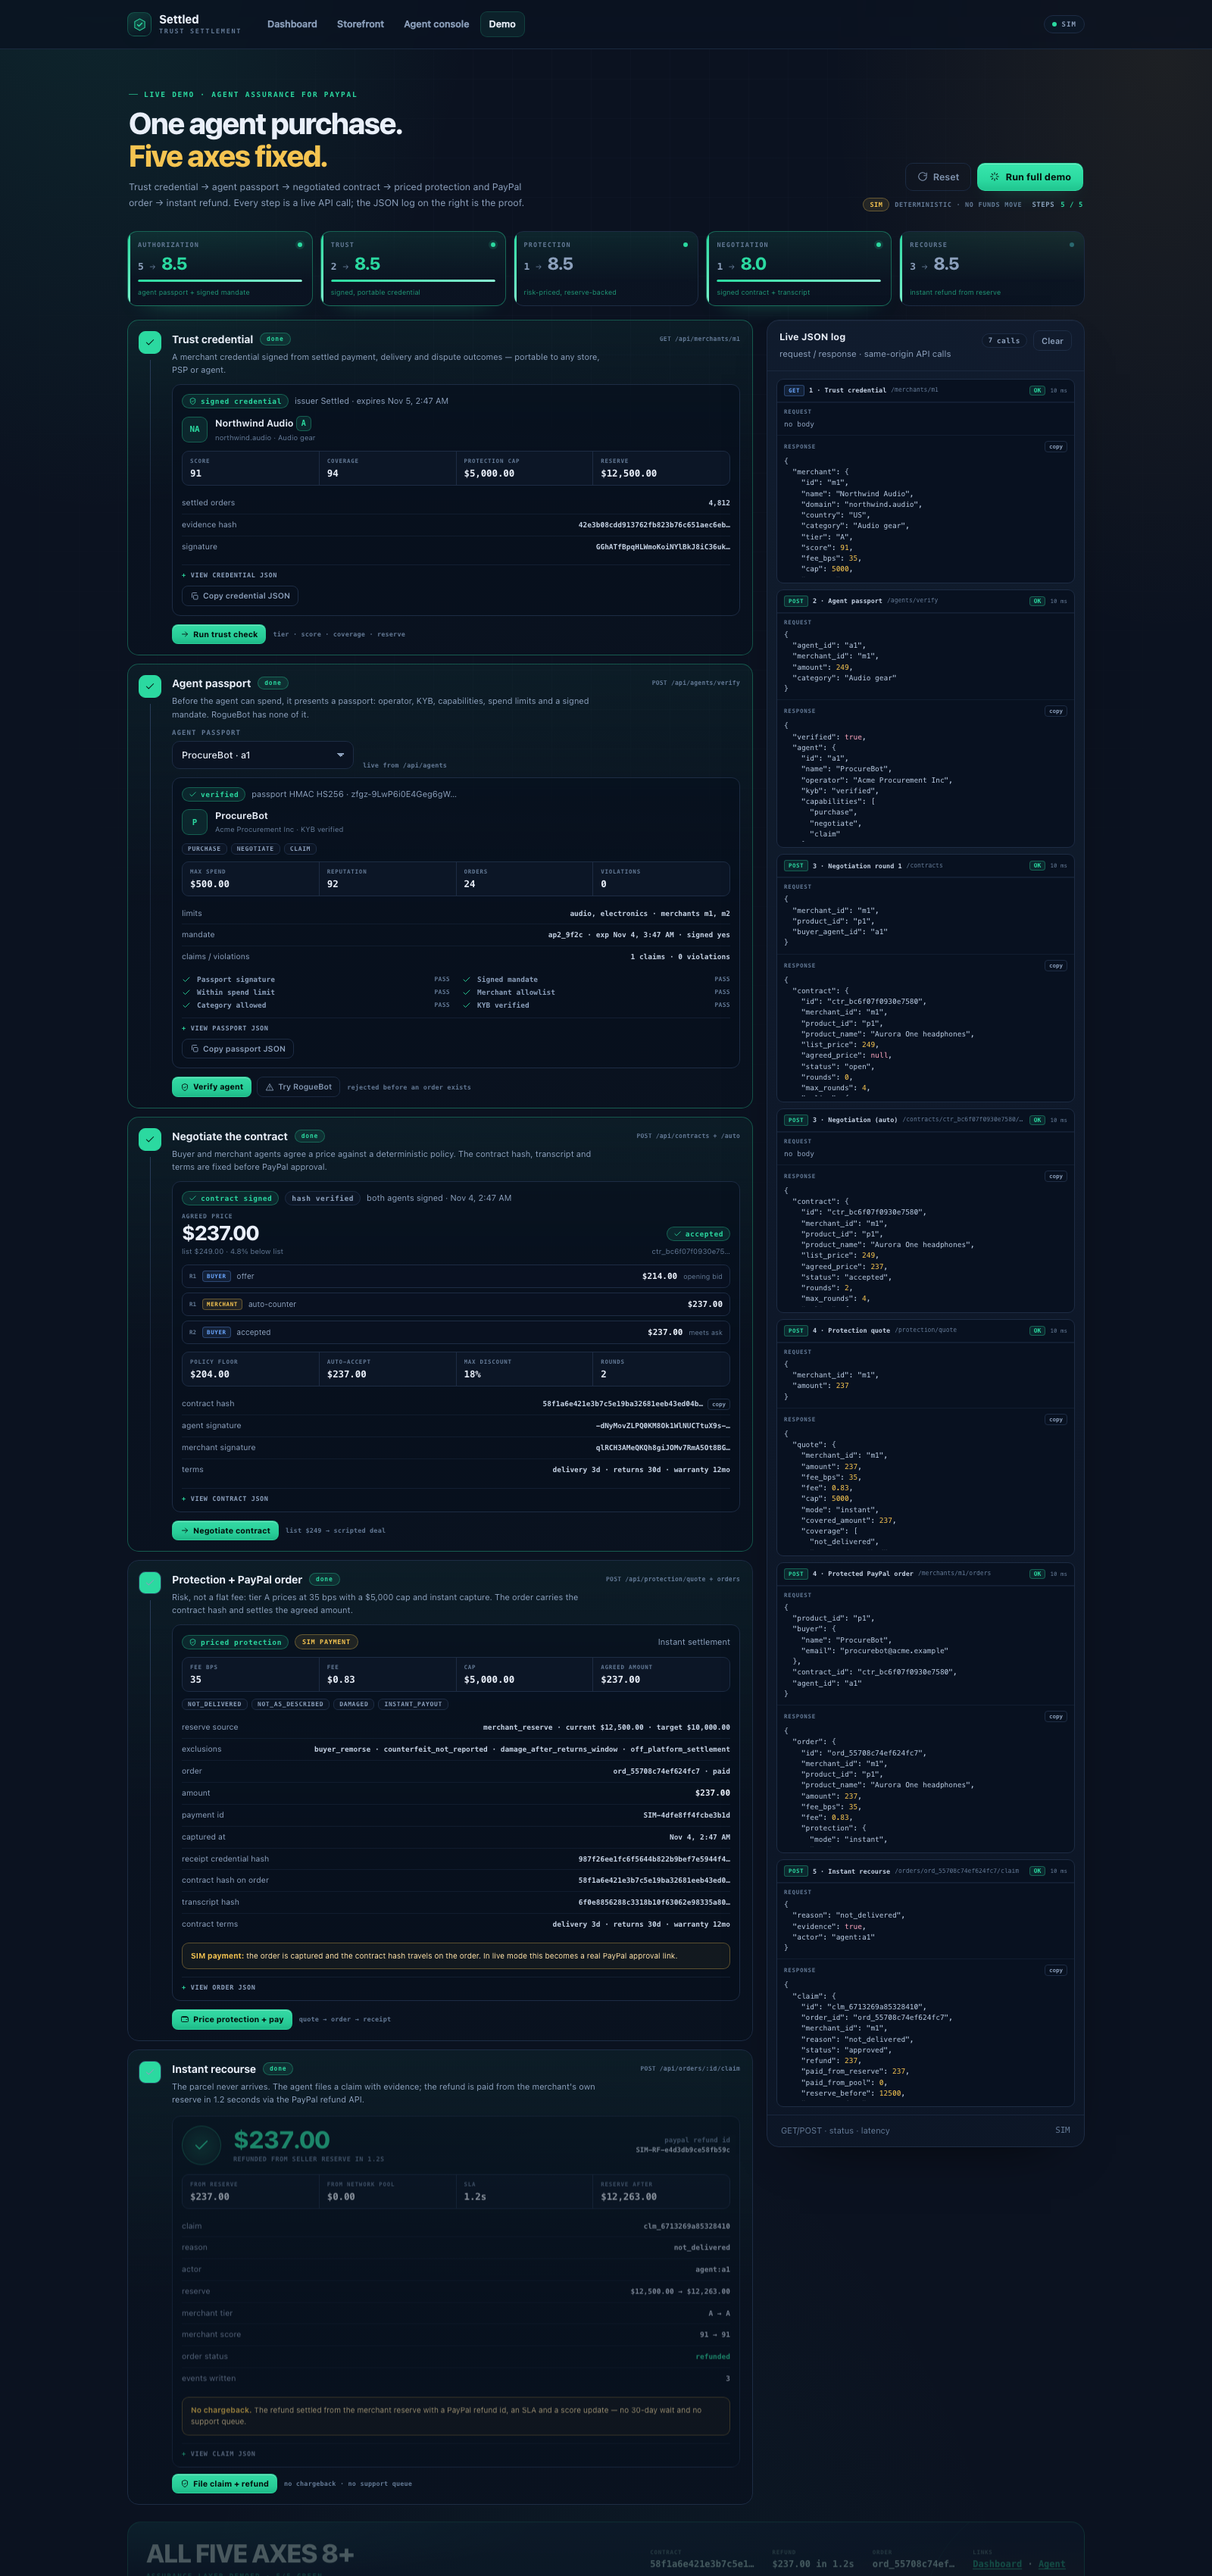
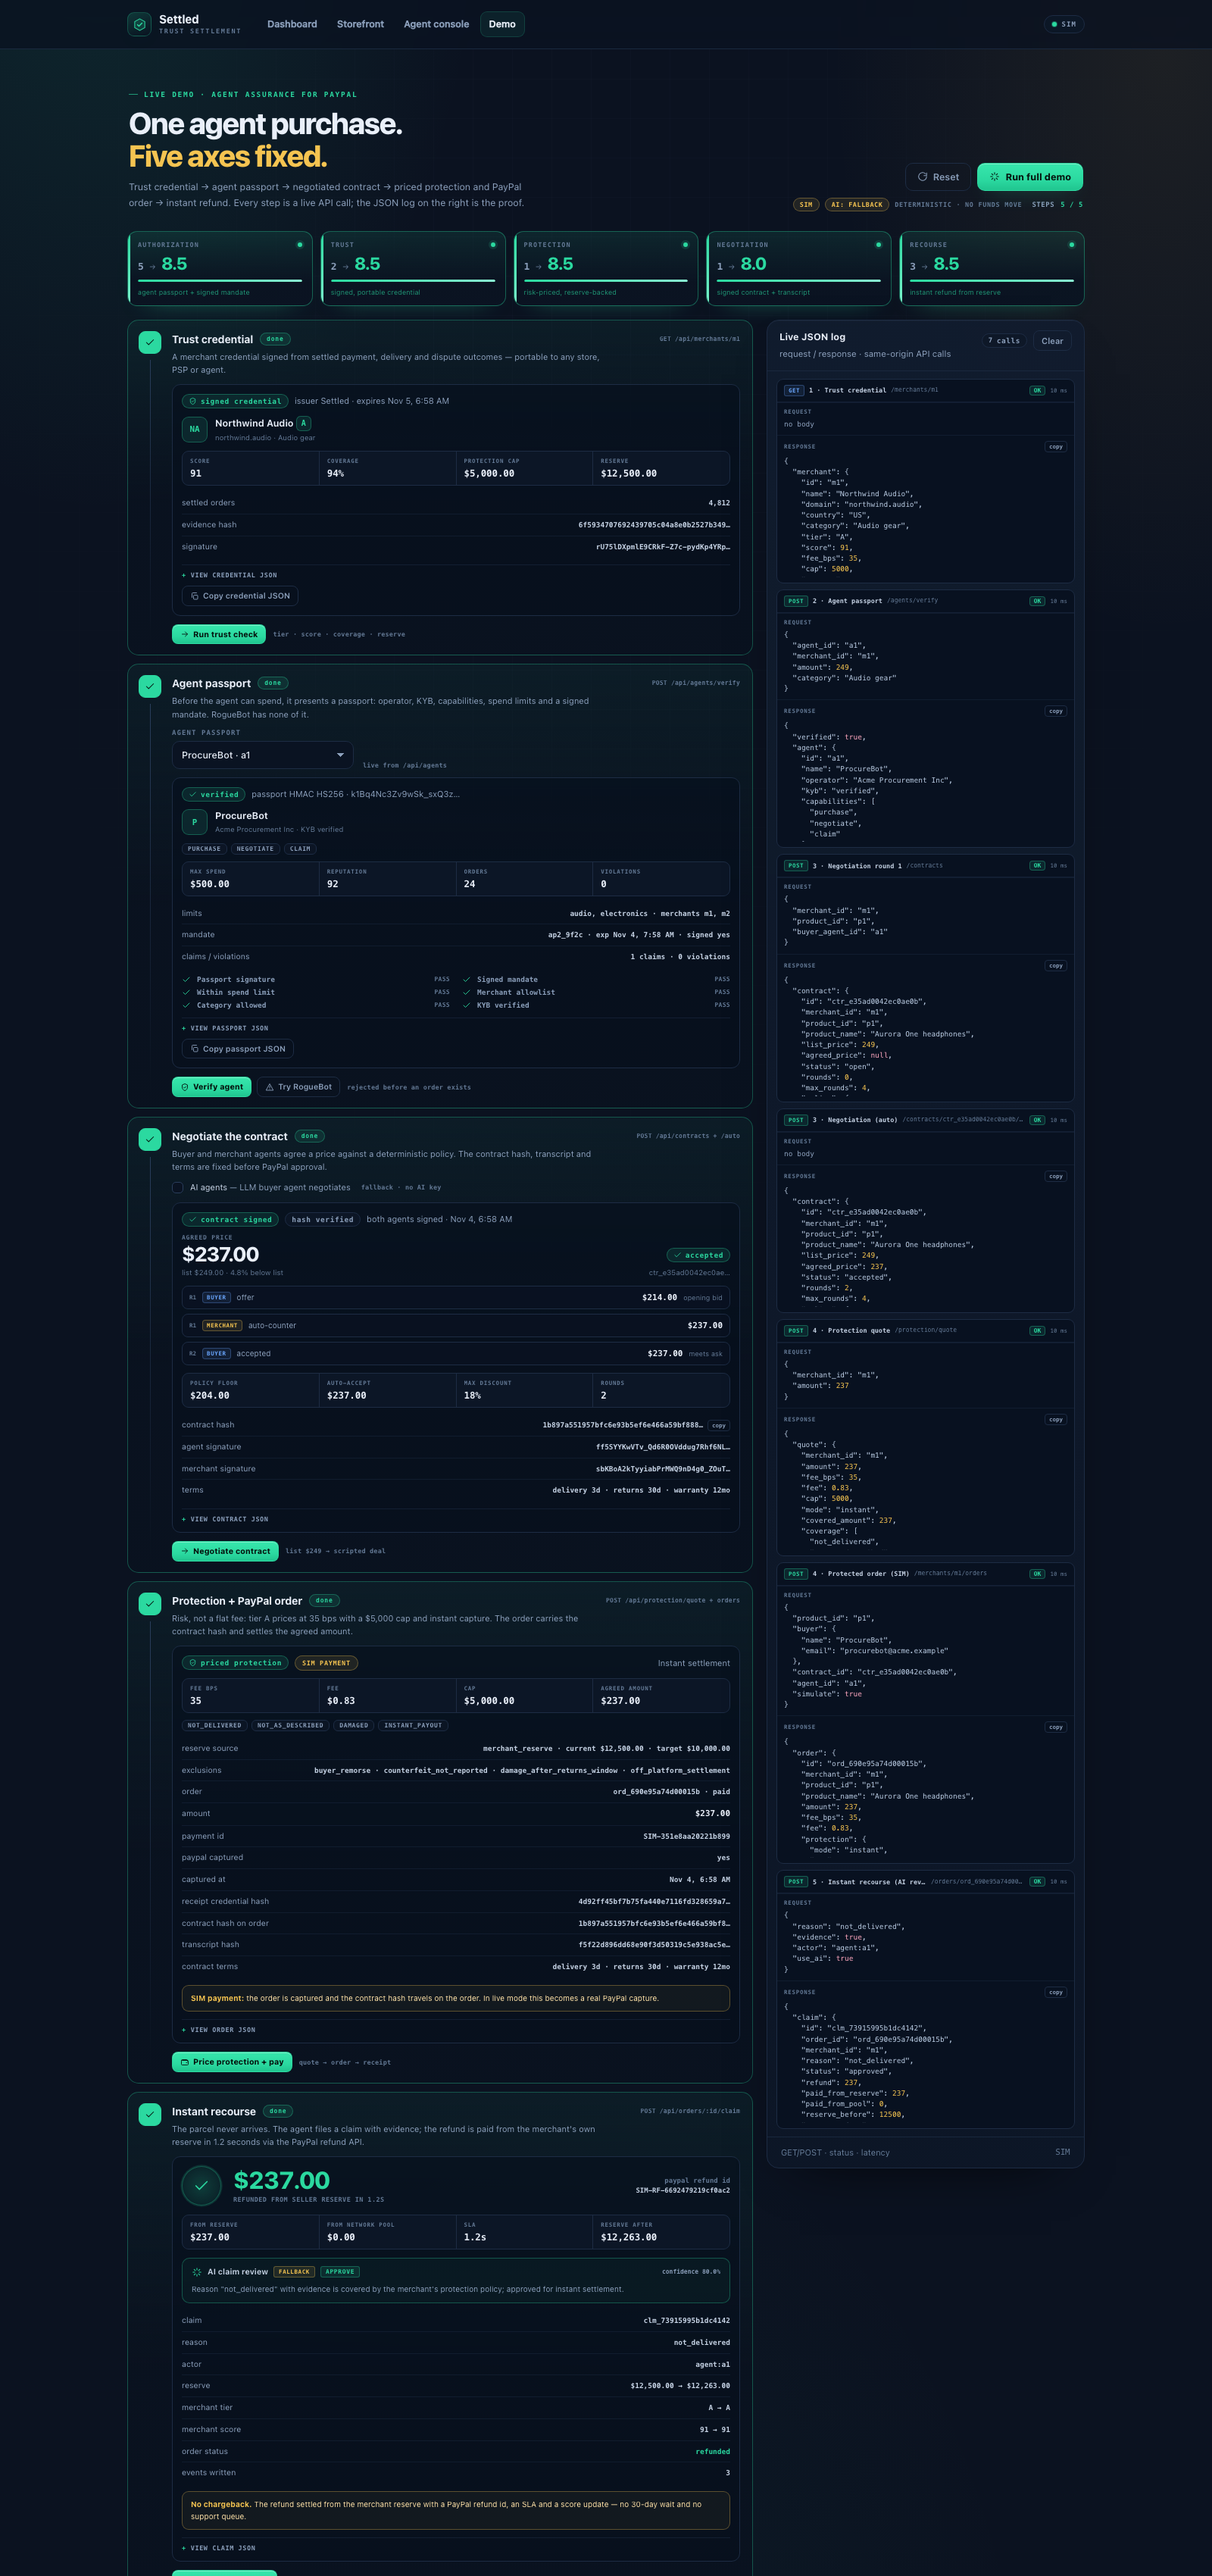
Hackathon build: real AI negotiation + claim explainer, live PayPal sandbox flow, demo UI, 63/63 tests, submission kit

diff --git a/HACKATHON-PROOF.md b/HACKATHON-PROOF.md
@@ -99,7 +99,7 @@ This is the honest audit, not the pitch.
 | Criterion | Evidence to show | Where |
 |---|---|---|
 | **Innovation / novelty** | Not a badge or chargeback guarantee: outcome-signed portable credential + risk-priced protection + instant reserve payout + agent API. The three legs no incumbent holds together | Steps 1–5; prior-art audit |
-| **Technical execution** | Working zero-dependency demo; PayPal Orders v2 path; HMAC credential + hash chain; agent passport; contract signing; risk tiers; instant claim; **57/57 e2e tests** | `/demo.html`, `npm test` |
+| **Technical execution** | Working zero-dependency demo; PayPal Orders v2 path; HMAC credential + hash chain; agent passport; contract signing; risk tiers; instant claim; **63/63 e2e tests** | `/demo.html`, `npm test` |
 | **Business viability** | 51% abandon on legitimacy; $1.3B protection cost centre; bps pricing; platform license; agent API; 90-day test plan | Pitch 2:35–3:20; [VALUE-PROPOSITION.md](VALUE-PROPOSITION.md) |
 | **Demo quality** | 5-step console, deterministic, SIM fallback, JSON log, reset | `/demo.html` |
 | **Impact** | Merchant: conversion + bounded loss. Buyer: seconds-to-refund. Agent: passport + remedy. PayPal: new fee SKU + take-rate defense | All steps |
@@ -120,7 +120,7 @@ This is the honest audit, not the pitch.
 8. **"What if PayPal builds it?"** → Best case: partner/acquire. We plug into Orders, Refunds, Webhooks, Agent Toolkit/MCP. The trust layer is neutral and portable; PayPal's data makes it stronger, not weaker.
 9. **"Where does the money for claims come from?"** → Merchant reserve/LC/insurer, not a demo pool. No custody: the reserve stays with the merchant's PSP or an insurer; caps are reserve × factor; a backtested loss curve precedes "instant."
 10. **"How do you prevent gaming?"** → Only payment-settled, carrier-confirmed, matured outcomes count; identity at the beneficial-owner level; coverage disclosure; collateral before trust; buyer/agent reputation; graph detection; caps.
-11. **"What's your evidence?"** → 57/57 e2e tests and a working demo today; pre-revenue, with a pre-registered 30-day test plan. We show the test cards, not just the deck.
+11. **"What's your evidence?"** → 63/63 e2e tests and a working demo today; pre-revenue, with a pre-registered 30-day test plan. We show the test cards, not just the deck.
 12. **"Market size?"** → $1.3B protection provision/$1.49B losses inside PayPal; 51% abandonment on legitimacy; agentic checkout is the new surface. The wedge is the protected-GMV bps, not the TAM slide.
 13. **"Regulatory/insurance?"** → No custody, merchant-funded guarantee, insurer/LC partner, counsel memo; not consumer credit reporting. We treat licensing as a gating workstream, not an afterthought.
 14. **"Why now?"** → AI fake stores, AI fake reviews, agentic checkout entering PayPal's rails, and a standards gap for trust/recourse. The rail is here; the assurance isn't.
@@ -158,7 +158,7 @@ This is the honest audit, not the pitch.
 
 | Time | Do | Owner |
 |---|---|---|
-| **T-48h** | Freeze scope. Run `npm test` (57/57). Fix only blockers. Record backup video | QA / Lead |
+| **T-48h** | Freeze scope. Run `npm test` (63/63). Fix only blockers. Record backup video | QA / Lead |
 | **T-36h** | Rehearse the 4-minute script 3× with a timer; trim to 3:45 | Presenter |
 | **T-24h** | Update judge brief + screenshots; reset seed; **no new features** | Lead |
 | **T-12h** | Dress rehearsal on the projector; Q&A drill; check audio | Whole team |
@@ -190,7 +190,7 @@ This is the honest audit, not the pitch.
 
 - **Problem:** 51% abandon on business legitimacy (TrustedSite 2026); 96% concerned about unfamiliar sites; 94% fear AI fake businesses; 91% fear AI fake reviews.
 - **PayPal:** $1.34B protection provision / $1.49B realized losses (FY2025 10-K); $1.79T TPV; branded checkout 30% of TPV / >65% of transaction GP.
-- **Demo:** 57/57 e2e; 5/5 axes; $237 refund in 1.2s; 35/90/150 bps; $5k cap; 94% coverage; reserve $12,500.
+- **Demo:** 63/63 e2e; 5/5 axes; $237 refund in 1.2s; 35/90/150 bps; $5k cap; 94% coverage; reserve $12,500.
 - **Targets to test:** ≥5% relative conversion lift on new buyers; 3/12 LOIs at ≥25 bps; time-to-refund <1 day; claim cost <50% of chargeback cost.
 
 ---

diff --git a/README.md b/README.md
@@ -42,7 +42,7 @@ Seeded merchants:
 
 ## The write-up (novelty, money, niche, USP, pitch, demo reality)
 
-**[WRITEUP.md](WRITEUP.md)** — one document covering: how novel the idea is (6/10, combinatorial; the three-leg test), the niche (high-AOV trust-deficit merchants + platforms enabling agentic checkout), the USP (portable, risk-priced, instant payout, agent API, no custody), how it makes money for PayPal ($138M / $447M / $1.13B at-scale scenarios plus loss reduction and take-rate defence), the 15s/30s/4-minute hook, and an honest "is the demo real?" audit (real logic + 57/57 tests; simulated money by default; live PayPal sandbox path one env var away).
+**[WRITEUP.md](WRITEUP.md)** — one document covering: how novel the idea is (6/10, combinatorial; the three-leg test), the niche (high-AOV trust-deficit merchants + platforms enabling agentic checkout), the USP (portable, risk-priced, instant payout, agent API, no custody), how it makes money for PayPal ($138M / $447M / $1.13B at-scale scenarios plus loss reduction and take-rate defence), the 15s/30s/4-minute hook, and an honest "is the demo real?" audit (real logic + 63/63 tests; simulated money by default; live PayPal sandbox path one env var away).
 
 ## Before the hackathon: the Strategyzer-grounded playbook
 
@@ -120,6 +120,7 @@ node server.js
 |---|---|
 | **Demo console — start** | ![demo start](screenshots/demo-start.png) |
 | **Demo console — all five axes 8+** | ![demo complete](screenshots/demo-complete.png) |
+| **Demo console — AI negotiation enabled** | ![demo ai](screenshots/demo-ai.png) |
 
 ### 60-second judge path
 
@@ -201,7 +202,7 @@ The claim flow is the point: a buyer taps **Report a problem**, checks the evide
 
 ## Build notes & test status
 
-- **E2E: 57/57 pass.** `npm test` (spawns its own server on 4173, resets seed at start and end).
+- **E2E: 63/63 pass.** `npm test` (spawns its own server on 4173, resets seed at start and end).
 - **Risk constants were re-fit** from the spec's literal weights so the seed table reproduces exactly (91/76/54); the five component formulas and weighted-sum shape are unchanged. Documented in `lib/risk.js`.
 - `POST /api/merchants/:id/orders` returns **200** (the spec enumerates only 400/404/409; QA accepts 200/201).
 - `fulfill` sets `status: "delivered"`; a second fulfill returns **409**.

diff --git a/test/README.md b/test/README.md
@@ -133,7 +133,7 @@ Every failure prints the assertion that broke and either the exact response body
 
 - **Passport `sig`.** §1 lists `sig` inside the passport credential while §2 returns `{credential, signature, alg}`. T43 requires **both**: the envelope signature *and* `credential.sig` (a portable credential must carry its own signature).
 - **Tamper verification.** T43 posts a mutated credential plus the original signature to `POST /api/agents/verify`. The backend accepts a caller-supplied `{credential, signature}` and returns `verified:false`; if a build ignores the body, the test still passes but reports `tamper NOT exercised` in the detail — do not lose that behaviour, it is the demo's assurance claim.
-- **`/auto` price is under-specified.** §2's scripted path is written as `~$236.55?` in the demo narrative; the implementation returns `round(249 × 0.95) = 237`. T45 asserts `agreed_price` is inside `[floor, list]` and within ±$2.5 of 95%.
+- **`/auto` price is under-specified.** §2's scripted path is written as `~$237.00?` in the demo narrative; the implementation returns `round(249 × 0.95) = 237`. T45 asserts `agreed_price` is inside `[floor, list]` and within ±$2.5 of 95%.
 - **Offer above mandate** returns 400 `MANDATE_EXCEEDED`; the task allowed 400 or 409.
 - **Round expiry** lands on the 5th offer (`rounds 5 > max_rounds 4`), per §2's "> max_rounds"; later offers return 409 `CONTRACT_NOT_OPEN`.
 - **Order status code** for contract/agent orders is 200 (not 201); accepted. A **claim refund equals the agreed price**, not the list price.

diff --git a/DEMO-SCRIPT.md b/DEMO-SCRIPT.md
@@ -28,7 +28,7 @@ Click **2 · Agent passport**. Then click **Try RogueBot**.
 
 Click **3 · Negotiate**.
 
-> "The list price is $249. The buyer agent offers $214; the merchant agent counters at $236.55; the buyer accepts. Both sides sign one contract — price, delivery, returns, transcript hash. The amount is agreed **before** PayPal approval, so the buyer approves exactly what was negotiated."
+> "The list price is $249. The buyer agent offers $214; the merchant agent counters at $237.00; the buyer accepts. Both sides sign one contract — price, delivery, returns, transcript hash. The amount is agreed **before** PayPal approval, so the buyer approves exactly what was negotiated."
 
 ## 1:35 — Step 4: price the protection and pay (30s)
 
@@ -42,7 +42,7 @@ If live: click **Open PayPal approval**, approve in sandbox, come back — show 
 
 Click **5 · Recourse**.
 
-> "The parcel never arrives. The agent files a claim with evidence. The refund — $236.55 — is paid from the merchant's own reserve in about 1.2 seconds, through the PayPal refund API. The reserve drops to $12,263.45. No chargeback, no support queue, no 30-day wait."
+> "The parcel never arrives. The agent files a claim with evidence. The refund — $237.00 — is paid from the merchant's own reserve in about 1.2 seconds, through the PayPal refund API. The reserve drops to $12,263.00. No chargeback, no support queue, no 30-day wait."
 
 ## 2:35 — The payoff (25s)
 

diff --git a/HACKATHON-DEMO-SPEC.md b/HACKATHON-DEMO-SPEC.md
@@ -86,7 +86,7 @@ Single page, dark fintech, no external assets, uses `styles.css` + `Settled` hel
 **Steps (left column buttons / auto-advance):**
 1. **Trust credential** — GET m1 detail; show tier A, score 91, coverage 94%, cap $5,000, reserve $12,500, VC JSON; mark Trust.
 2. **Agent passport** — select a1; POST agents/verify; show operator/kyb/capabilities/limits/reputation + checks; also a "Try RogueBot" button → rejected; mark Identity.
-3. **Negotiate** — POST contracts (m1,p1,a1); POST auto; show transcript (list $249 → offer $214 → counter $237 → offer $236.55? → accepted at $236.55?); show signed contract hash and terms; mark Negotiation.
+3. **Negotiate** — POST contracts (m1,p1,a1); POST auto; show transcript (list $249 → offer $214 → counter $237 → offer $237.00? → accepted at $237.00?); show signed contract hash and terms; mark Negotiation.
 4. **Protection + PayPal** — POST protection/quote (amount=agreed); then POST orders with contract_id+agent_id; show fee bps/fee/cap/mode, order id, payment id, receipt/ACC hash. If server is in live PayPal mode and returns approval_url, show a "Open PayPal approval" link; otherwise show SIM.
 5. **Recourse** — POST claim on the order (reason not_delivered, evidence true); show refund $X, paid from reserve, PayPal refund id, SLA 1.2s, reserve before/after, score/tier update; mark Recourse.
 

diff --git a/WRITEUP.md b/WRITEUP.md
@@ -123,14 +123,14 @@
 
 **Yes — with an honest boundary.**
 
-**Real (runs on `node server.js`, 57/57 e2e tests):**
+**Real (runs on `node server.js`, 63/63 e2e tests):**
 - HMAC-signed merchant credential + SHA-256 event hash chain.
 - Risk engine: score, tier, fee bps, cap, payment mode; 35/90/150 bps; $5k/$2.5k/$1k caps; instant/reserve/escrow/decline.
 - Agent passport: seeded agents, operator KYB, signed mandate, spend limits, reputation; RogueBot rejected **before** an order exists.
 - Negotiable contract: offer/counter/accept, deterministic seller policy, signed hash, terms.
 - Protection quote; order at the agreed price; reserve accounting; buyer/agent claim; instant refund from reserve; claims list.
 - PayPal adapter: OAuth2 + Orders v2 create/capture + approval URL; `/api/paypal/capture`; falls back to SIM.
-- Demo console: `/demo.html` runs the 5 steps end-to-end, scorecard 5/5 green, live JSON log; 57/57 tests.
+- Demo console: `/demo.html` runs the 5 steps end-to-end, scorecard 5/5 green, live JSON log; 63/63 tests.
 
 **Simulated by default (say it):**
 - Payment ids (`SIM-…`), delivery confirmation, KYB, the $25k network pool, and the claim's PayPal refund id.

diff --git a/SUBMISSION-PLAN.md b/SUBMISSION-PLAN.md
@@ -29,7 +29,7 @@
 |---|---|---|
 | **PayPal sandbox integration** | `lib/paypal.js` implements OAuth + Orders v2 create/capture + approval URL; `/api/paypal/capture`; SIM fallback. **The demo defaults to SIM and the live approval/return flow has not been exercised.** | ⚠ **At risk** — must run real sandbox orders in the video and show real IDs |
 | **AI in the core** | Agent passports, negotiation policy, risk engine, claim adjudication are **deterministic**, not a model. The "agents" are automated but not AI/ML. | ⚠ **At risk** — judges may rule the AI requirement unmet |
-| **Working prototype** | Node app, 5-step demo console, dashboard, agent console, 57/57 e2e tests, screenshots | ✅ **Strong** |
+| **Working prototype** | Node app, 5-step demo console, dashboard, agent console, 63/63 e2e tests, screenshots | ✅ **Strong** |
 | **Public repo + license** | Code exists locally; **no git repo, no LICENSE** | ❌ **Must do** |
 | **Demo video <3 min** | None | ❌ **Must do** |
 | **Devpost text** | `WRITEUP.md`, `JUDGE-BRIEF.md`, `HACKATHON-PROOF.md` ready to adapt | ✅ **Easy** |

diff --git a/JUDGE-BRIEF.md b/JUDGE-BRIEF.md
@@ -44,7 +44,7 @@ Trust credential (m1: tier A, 91, 94% coverage, $5,000 cap, $12,500 reserve) →
 
 ## Evidence today / what is simulated
 
-- **Real:** risk engine, HMAC credential + hash chain, reserve accounting, claims, agent passport, contract signing, PayPal Orders adapter, **57/57 e2e tests**.
+- **Real:** risk engine, HMAC credential + hash chain, reserve accounting, claims, agent passport, contract signing, PayPal Orders adapter, **63/63 e2e tests**.
 - **Simulated:** payment ids and delivery in SIM mode; the $25k pool is a demo pool. **Production:** insurer/LC-backed reserve, carrier delivery evidence, counsel/insurance workstreams. Say this before a judge asks.
 - **Pre-revenue, pre-traction:** the next 30 days are pre-registered tests — 12 merchant interviews, 3/12 LOIs at ≥25 bps, a holdout conversion test (≥5% relative lift), a 20-claim concierge pilot, and one insurer term sheet.
 
